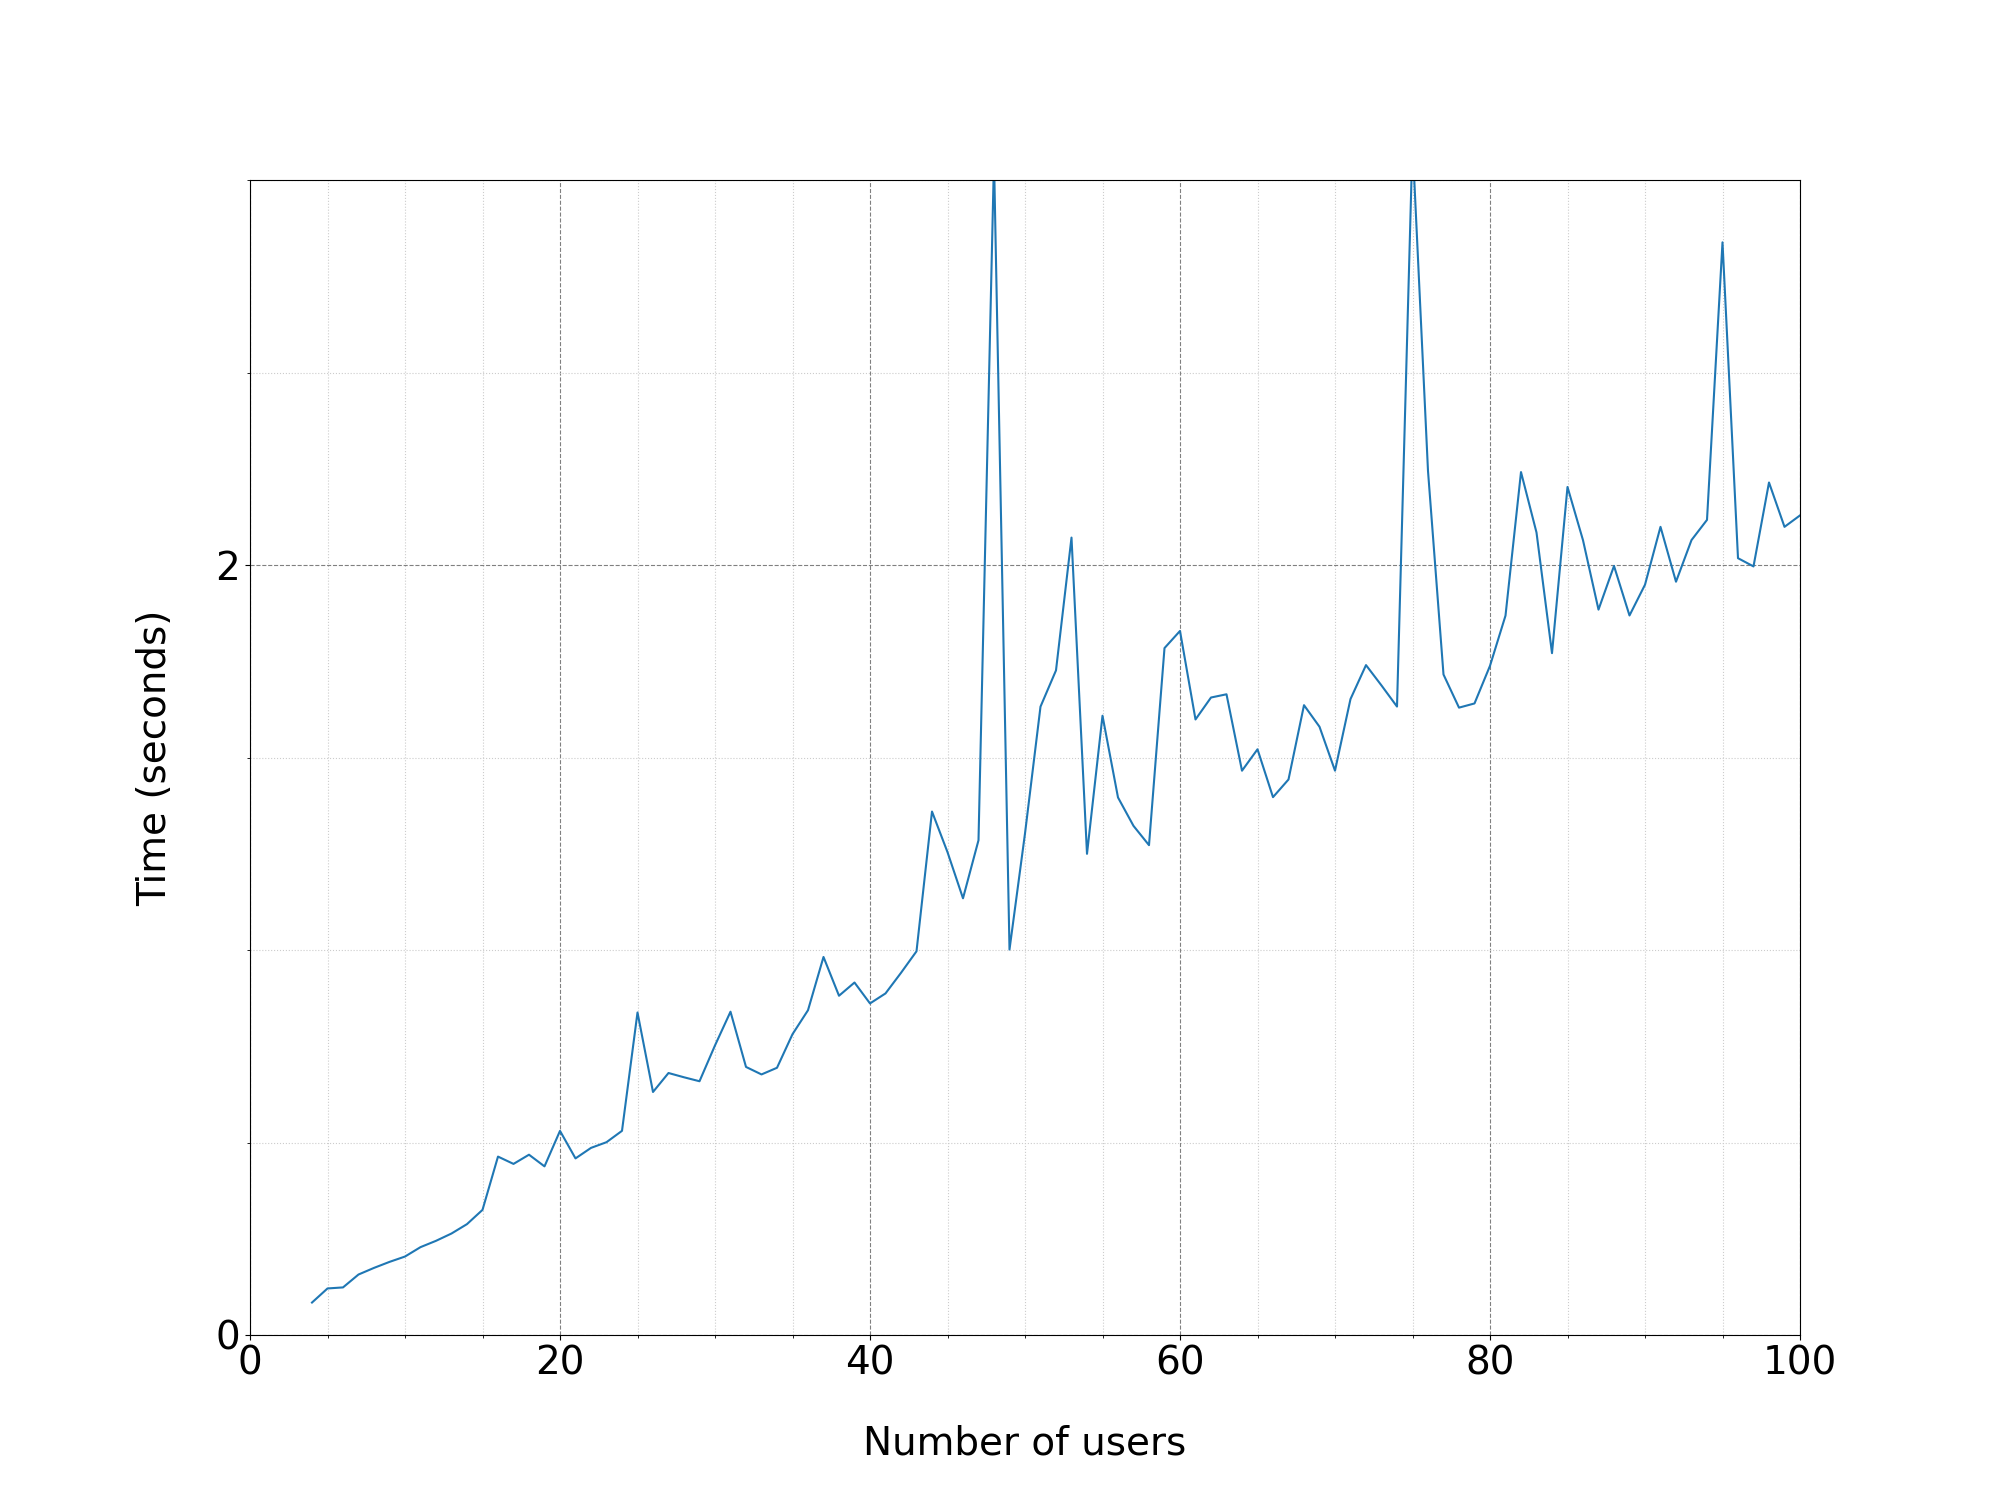
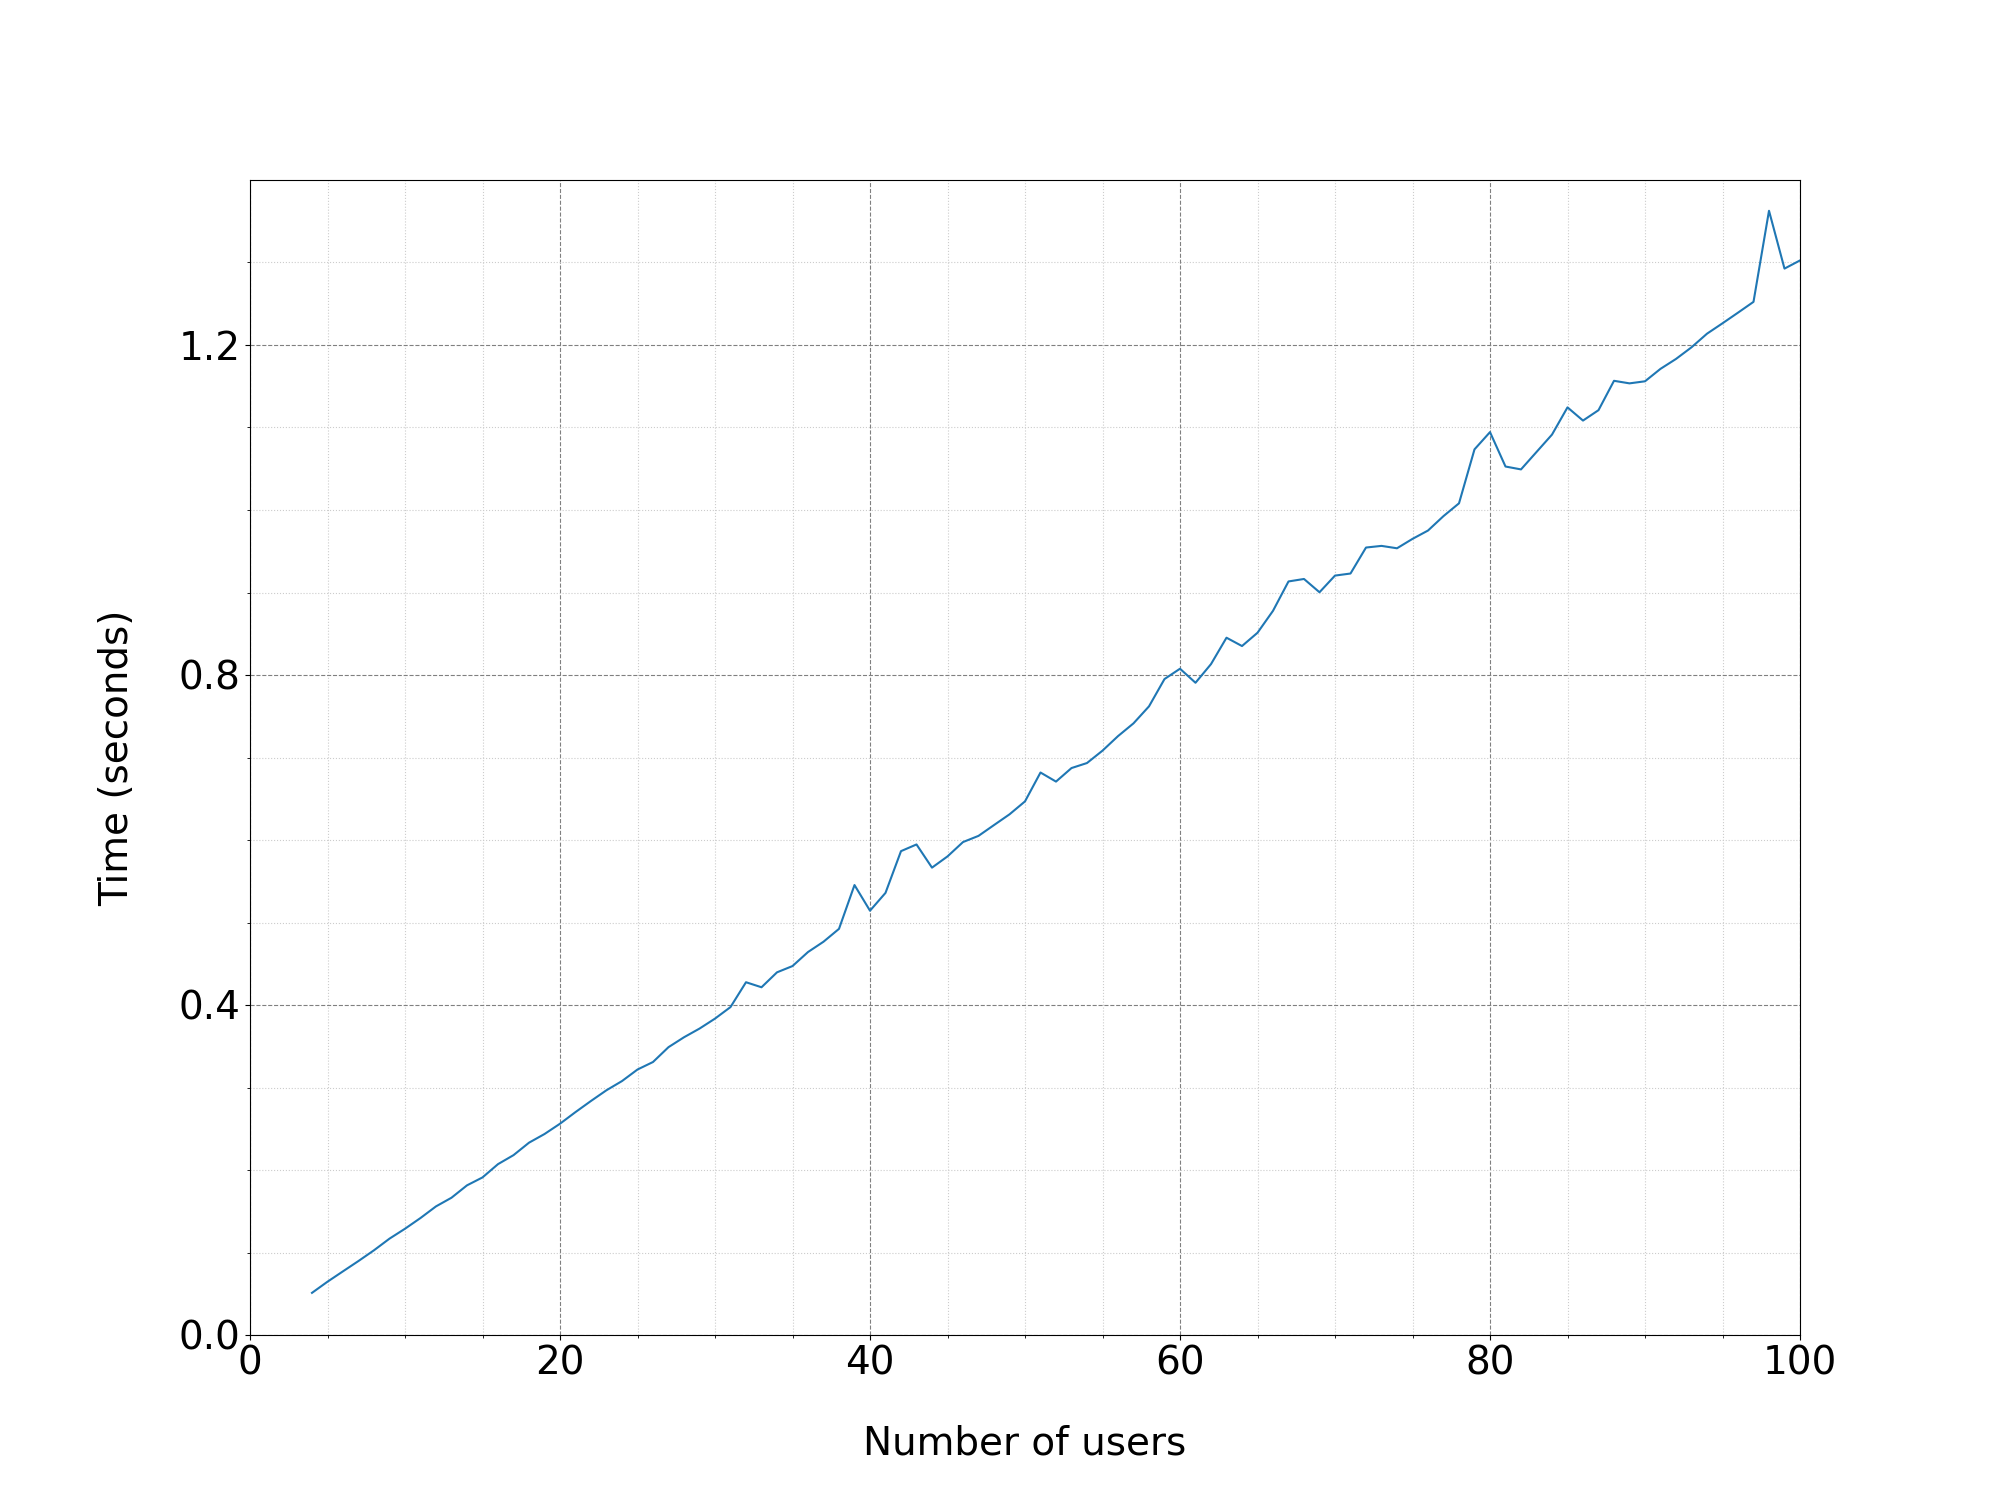
lsag plots refactoring

diff --git a/__test__/lsag/plot_lsag.py b/__test__/lsag/plot_lsag.py
@@ -11,7 +11,7 @@ def create_data(sign=True):
     x.clear()
     y.clear()
 
-    with open("data/data_lsag_core_i5.csv", newline='') as csv_file:
+    with open("data/data_lsag_core_i7.csv", newline='') as csv_file:
         spam_reader = csv.reader(csv_file, delimiter=',')
 
         for row in spam_reader:
@@ -37,7 +37,7 @@ def create_plot():
     fig, axs = plot.subplots(figsize=(20, 15))
 
     axs.set_xlim(0, 100)
-    axs.set_ylim(0, round(max(y)))
+    axs.set_ylim(0, 1.4)
 
     axs.xaxis.set_major_locator(MultipleLocator(20))
     axs.yaxis.set_major_locator(MultipleLocator(20))
@@ -51,7 +51,7 @@ def create_plot():
     axs.plot(x, y)
 
     plot.xticks(np.arange(0, 105, 20))
-    plot.yticks(np.arange(0, round(max(y)), 2))
+    plot.yticks(np.arange(0, 1.4, 0.4))
 
     plot.ylabel("Time (seconds)", labelpad=30)
     plot.xlabel("Number of users", labelpad=30)

diff --git a/client.py b/client.py
@@ -68,4 +68,4 @@ def mlsag_client():
 
 if __name__ == '__main__':
     mlsag_client()
-    lsag_client()
+    # lsag_client()
